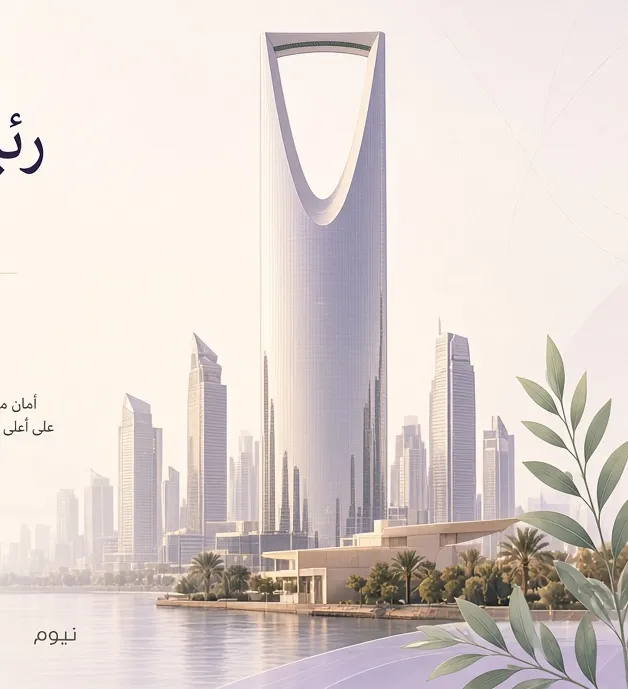
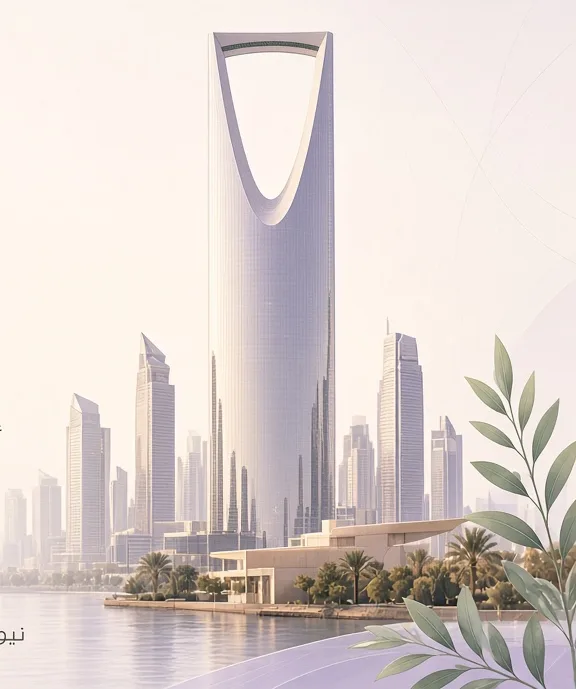
rebrand: hero art crop and overlay tuned to the approved mockup

Changed region(s): [[0.0, 0.0305, 1.0, 1.0], [0.0, 0.1524, 0.0938, 0.2743], [0.0, 0.8229, 0.0625, 0.8534]]

diff --git a/src/web/static/css/narjis-v2.css b/src/web/static/css/narjis-v2.css
@@ -283,13 +283,13 @@ body.v2 {
    ===================================================================== */
 .hero {
   background:
-    linear-gradient(90deg, var(--v2-ivory) 0%, rgba(250, 246, 239, .92) 38%, rgba(250, 246, 239, 0) 62%),
+    linear-gradient(270deg, var(--v2-ivory) 0%, var(--v2-ivory) 44%, rgba(250, 246, 239, 0) 60%),
     url("/static/img/hero-riyadh.webp") left bottom / auto 100% no-repeat,
     linear-gradient(180deg, #fbf8fd 0%, var(--v2-lavender-soft) 100%);
   color: var(--v2-ink); padding: 64px 0 80px; position: relative; overflow: hidden;
 }
 [dir="ltr"] .hero { background:
-    linear-gradient(270deg, var(--v2-ivory) 0%, rgba(250, 246, 239, .92) 38%, rgba(250, 246, 239, 0) 62%),
+    linear-gradient(90deg, var(--v2-ivory) 0%, var(--v2-ivory) 44%, rgba(250, 246, 239, 0) 60%),
     url("/static/img/hero-riyadh.webp") right bottom / auto 100% no-repeat,
     linear-gradient(180deg, #fbf8fd 0%, var(--v2-lavender-soft) 100%); }
 .hero .eyebrow, .eyebrow { color: var(--v2-earth); }
